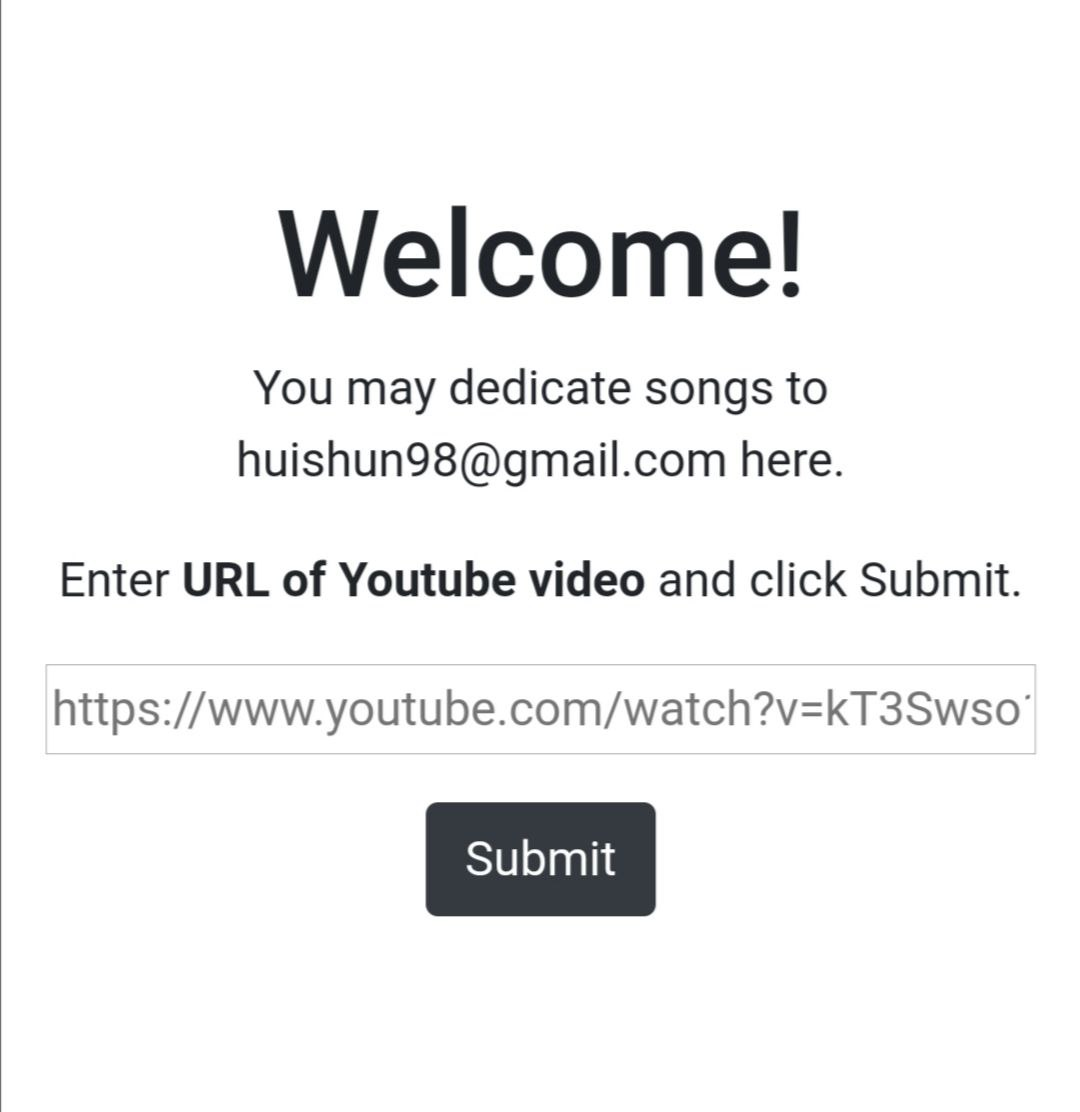
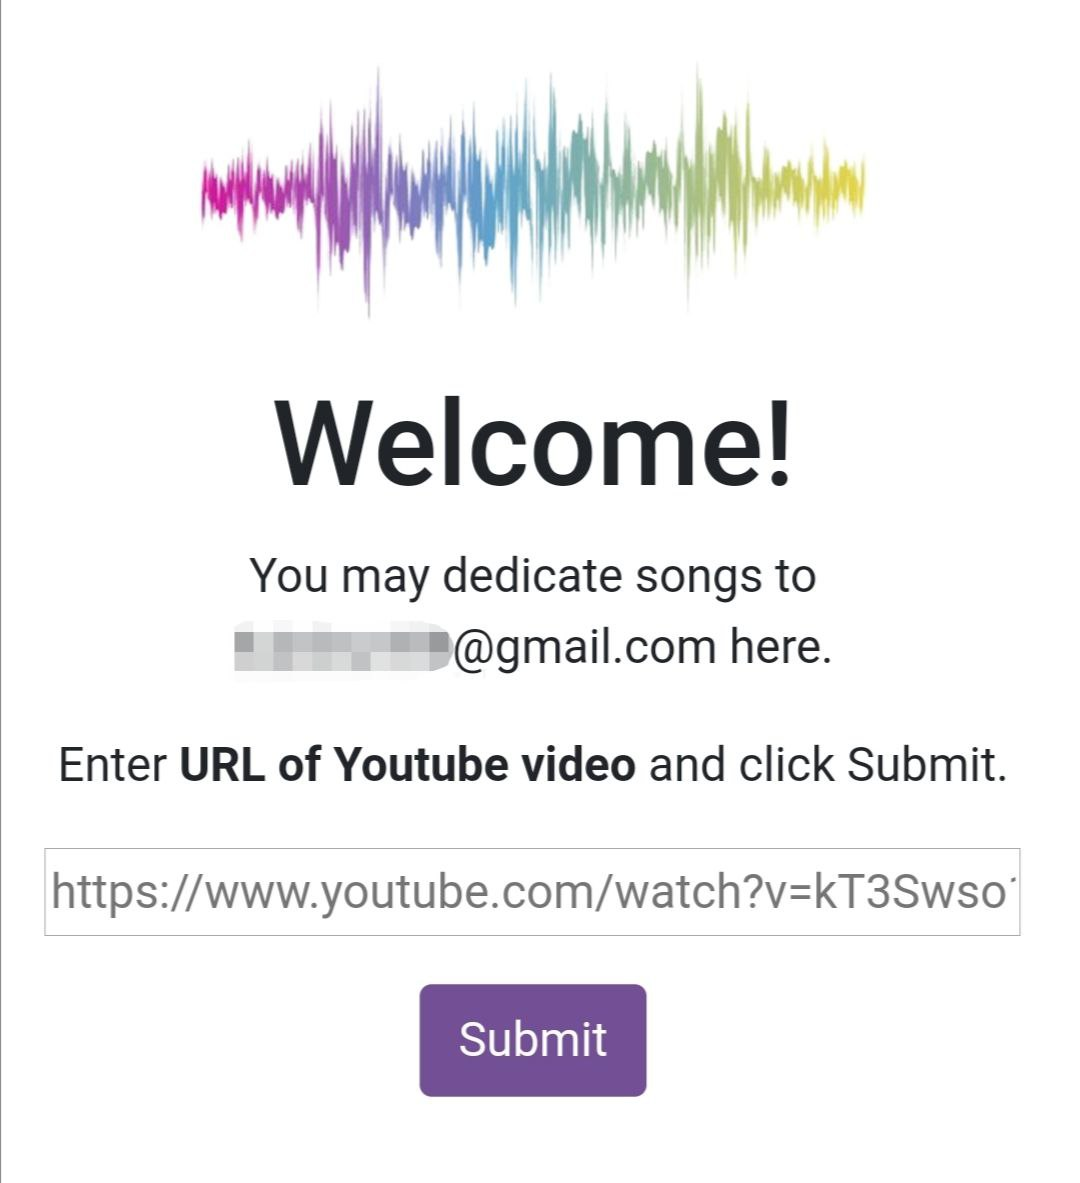
fixed bug that deletes playlist when unable to update, added pictures, added sticky to header, added current music id update to fb

diff --git a/src/store/index.js b/src/store/index.js
@@ -22,6 +22,9 @@ export default new Vuex.Store({
     // downloadPlaylist() {
 
     // },
+    updateCurrentMusicHandler({ }, id) {
+      updateCurrentMusic(id)
+    },
     deleteTrack({ state }, trackNumber) {
       const i = trackNumber - 1
       let playlist = state.playlist
@@ -37,34 +40,87 @@ export default new Vuex.Store({
         alert("Playlist is successfully cleared.")
       })
     },
-    updatePlaylist({ commit }) {
-      const email = localStorage.getItem("email")
-      if (email.length > 0) {
-        playlistsCollection.doc(email).onSnapshot(function (doc) {
-          if (doc.data() == undefined) {
-            uploadPlaylist([]);
-            commit("setPlaylist", [])
-          } else {
+    loginGeneratePlaylist({ dispatch, commit }, email) {
+      if (email.length <= 0) {
+        console.log(`Error getting user email: ${email}`)
+      }
+      // check if user exists, if not create new playlist
+      const docRef = playlistsCollection.doc(email)
+      docRef.get()
+        .then((doc) => {
+          if (doc.exists) {
             commit("setPlaylist", doc.data().playlist)
+          } else {
+            // separate login interation with firebase to ensure that clear playlist only happens when required
+            newPlaylist(email).then(() => {
+              dispatch('updatePlaylist')
+            });
           }
         });
+    },
+    updatePlaylist({ commit }) {
+      const email = localStorage.getItem("email")
+      if (email.length <= 0) {
+        return
       }
+      let docRef = playlistsCollection.doc(email);
+      docRef.get().then((doc) => {
+        if (doc.exists) {
+          commit("setPlaylist", doc.data().playlist)
+        } else {
+          console.log(`Error getting playlist: ${email}`)
+        }
+      }).catch(function (error) {
+        console.log("Error getting document:", error);
+      });
+    },
+    watchPlaylistUpdates({ commit }) {
+      const email = localStorage.getItem("email")
+      playlistsCollection.doc(email).onSnapshot(function (doc) {
+        if (doc.data() == undefined) {
+          console.log(`Error getting playlist: ${email}`)
+        } else {
+          commit("setPlaylist", doc.data().playlist)
+        }
+      });
     }
   },
   modules: {
   }
 })
 
-const uploadPlaylist = (playlist) => {
+
+// Uploading to firestore
+
+const updateCurrentMusic = (id) => {
   const email = localStorage.getItem("email")
+
+  return new Promise(function (resolve, reject) {
+    playlistsCollection
+      .doc(email)
+      .update({
+        currentMusic: id
+      })
+      .then(function () {
+        resolve()
+      })
+      .catch(function (error) {
+        console.error("Error updating current music: ", error);
+        reject()
+      });
+  })
+}
+
+const newPlaylist = (email) => {
   const time = new Date().getTime()
 
   return new Promise(function (resolve, reject) {
     playlistsCollection
       .doc(email)
       .set({
-        playlist: playlist,
-        timestamp: time
+        playlist: [],
+        timestamp: time,
+        currentMusic: 0
       })
       .then(function () {
         console.log("Document successfully written!");
@@ -75,5 +131,26 @@ const uploadPlaylist = (playlist) => {
         reject()
       });
   })
+}
 
+const uploadPlaylist = (playlist) => {
+  const email = localStorage.getItem("email")
+  const time = new Date().getTime()
+
+  return new Promise(function (resolve, reject) {
+    playlistsCollection
+      .doc(email)
+      .update({
+        playlist: playlist,
+        timestamp: time
+      })
+      .then(function () {
+        console.log("Document successfully updated");
+        resolve()
+      })
+      .catch(function (error) {
+        console.error("Error updating document: ", error);
+        reject()
+      });
+  })
 }

diff --git a/src/components/Navbar.vue b/src/components/Navbar.vue
@@ -1,31 +1,29 @@
 <template>
-  <div class>
-    <b-navbar toggleable="lg" type="dark" variant="dark">
-      <router-link class="navbar-brand" to="/home">SongDedi</router-link>
+  <b-navbar toggleable="lg" type="dark" variant="dark" sticky>
+    <router-link class="navbar-brand" to="/home">SongDedi</router-link>
 
-      <b-navbar-toggle target="nav-collapse"></b-navbar-toggle>
+    <b-navbar-toggle target="nav-collapse"></b-navbar-toggle>
 
-      <b-collapse id="nav-collapse" is-nav v-if="show">
-        <!-- Right aligned nav items -->
-        <b-navbar-nav class="ml-auto">
-          <li class="nav-item">
-            <router-link class="nav-link" to="/">Home</router-link>
-          </li>
-          <li class="nav-item">
-            <router-link class="nav-link" to="/playlist">Playlist</router-link>
-          </li>
-          <li class="nav-item">
-            <router-link class="nav-link" to="/settings">Settings</router-link>
-          </li>
-          <b-nav-item
-            class="btn-outline-secondary btn-outline margin-left-10 slim margin-top-md"
-            href="javascript:void(0)"
-            @click="logout()"
-          >Logout</b-nav-item>
-        </b-navbar-nav>
-      </b-collapse>
-    </b-navbar>
-  </div>
+    <b-collapse id="nav-collapse" is-nav v-if="show">
+      <!-- Right aligned nav items -->
+      <b-navbar-nav class="ml-auto">
+        <li class="nav-item">
+          <router-link class="nav-link" to="/">Home</router-link>
+        </li>
+        <li class="nav-item">
+          <router-link class="nav-link" to="/playlist">Playlist</router-link>
+        </li>
+        <li class="nav-item">
+          <router-link class="nav-link" to="/settings">Settings</router-link>
+        </li>
+        <b-nav-item
+          class="btn-outline-secondary btn-outline margin-left-10 slim margin-top-md"
+          href="javascript:void(0)"
+          @click="logout()"
+        >Logout</b-nav-item>
+      </b-navbar-nav>
+    </b-collapse>
+  </b-navbar>
 </template>
 
 <script>

diff --git a/src/views/Settings.vue b/src/views/Settings.vue
@@ -8,10 +8,10 @@
       <!-- <div class="section">
         <h2 class="subtitle">Download playlist</h2>
         <b-button variant="primary" @click="downloadPlaylist()">Download playlist</b-button>
-      </div> -->
+      </div>-->
       <div class="section">
         <h2 class="subtitle">Delete tracks</h2>
-        <p>Enter track number and click delete</p>
+        <p>Select track number to delete</p>
         <b-form inline>
           <b-form-select
             id="inline-form-custom-select-pref"
@@ -19,13 +19,13 @@
             :options="options"
             :value="null"
             v-model="selectedTrack"
+            @change="deleteTrack()"
           ></b-form-select>
-          <b-button variant="danger" @click="deleteTrack()">Delete</b-button>
         </b-form>
       </div>
       <div class="section">
         <h2 class="subtitle">Clear playlist</h2>
-        <b-button variant="danger" @click="clearPlaylist()">Clear all tracks</b-button>
+        <b-link class="text-danger" @click="clearPlaylist()">Clear all tracks</b-link>
       </div>
     </div>
   </div>
@@ -70,12 +70,17 @@ export default {
         alert("Please select a track to delete");
         return;
       }
-      const answer = window.confirm(
-        "Do you really want to delete this track? This action is not reversible."
-      );
-      if (answer) {
-        this.$store.dispatch("deleteTrack", this.selectedTrack);
-      }
+      const _this = this;
+
+      setTimeout(function () {
+        const answer = window.confirm(
+          `Do you really want to delete track ${_this.selectedTrack}? This action is not reversible.`
+        );
+        if (answer) {
+          _this.$store.dispatch("deleteTrack", _this.selectedTrack);
+          _this.selectedTrack = null;
+        }
+      }, 0);
     },
     clearPlaylist() {
       const answer = window.confirm(
@@ -87,6 +92,7 @@ export default {
     },
   },
   mounted() {
+    this.$store.dispatch("watchPlaylistUpdates");
     this.initialiseOptions();
   },
 };

diff --git a/src/views/Home.vue b/src/views/Home.vue
@@ -2,16 +2,18 @@
   <div>
     <Navbar />
     <div class="container align-left pad-top-30">
+      <img :src="image" class="image translate-10" />
       <div class="section">
         <h1 class="title">Welcome to SongDedi!</h1>
         <p>This is a song dedication service.</p>
       </div>
       <div class="section">
-        <h2 class="subtitle">Request for songs</h2>
+        <h2 class="subtitle">Add songs to playlist</h2>
         <p>
-          Songs for this account can be requested at
-          <a :href="link" target="_blank">{{link}}</a>
+          Add songs to your playlist at
+          <a :href="link" target="_blank">{{link}}</a>.
         </p>
+        <p>Share this link with your friends!</p>
       </div>
       <div class="section">
         <h2 class="subtitle">View playlist</h2>
@@ -26,6 +28,7 @@
 
 <script>
 import Navbar from "@/components/Navbar.vue";
+import image from "@/assets/sound.png";
 
 export default {
   name: "Home",
@@ -33,7 +36,9 @@ export default {
     Navbar,
   },
   data() {
-    return {};
+    return {
+      image: image,
+    };
   },
   computed: {
     email() {

diff --git a/src/views/Playlist.vue b/src/views/Playlist.vue
@@ -3,7 +3,7 @@
     <div>
       <Navbar />
     </div>
-    <aplayer class="custom-player" :audio="playlist" />
+    <aplayer class="custom-player" :audio="playlist" ref="aplayer" />
   </div>
 </template>
 
@@ -24,6 +24,18 @@ export default {
     GoogleLogin,
     Navbar,
   },
+  mounted() {
+    this.$store.dispatch("watchPlaylistUpdates");
+
+    this.$watch(
+      () => {
+        return this.$refs.aplayer.currentMusic;
+      },
+      (item) => {
+        this.$store.dispatch("updateCurrentMusicHandler", item.id);
+      }
+    );
+  },
   computed: {
     playlist() {
       return this.$store.state.playlist;
@@ -31,8 +43,8 @@ export default {
   },
   methods: {
     isPlaying() {
-      const x = document.getElementsByClassName("aplayer-button")[0];
-      return x.classList.contains("aplayer-pause");
+      const { media } = this.$refs.aplayer;
+      return !media.paused;
     },
   },
   beforeRouteLeave(to, from, next) {
@@ -45,7 +57,7 @@ export default {
       } else {
         next(false);
       }
-      return
+      return;
     }
     next();
   },

diff --git a/src/views/Login.vue b/src/views/Login.vue
@@ -52,7 +52,7 @@ export default {
           // The signed-in user info.
           var user = result.user;
           localStorage.setItem("email", user.email);
-          _this.$store.dispatch("updatePlaylist");
+          _this.$store.dispatch("loginGeneratePlaylist", user.email);
           _this.$router.push("/home");
         });
     },

diff --git a/src/styles.css b/src/styles.css
@@ -55,6 +55,10 @@
     padding-bottom: 20px;
 }
 
+.translate-10 {
+    transform: translateX(-10px);
+}
+
 /* button */
 
 .btn-outline.btn-outline-secondary {
@@ -157,6 +161,11 @@
 
 .margin-top-md {
     margin-top: 20px;
+}
+
+.navbar-dark .navbar-toggler {
+    border: none;
+    outline: none
 }
 
 @media (min-width: 992px) {
